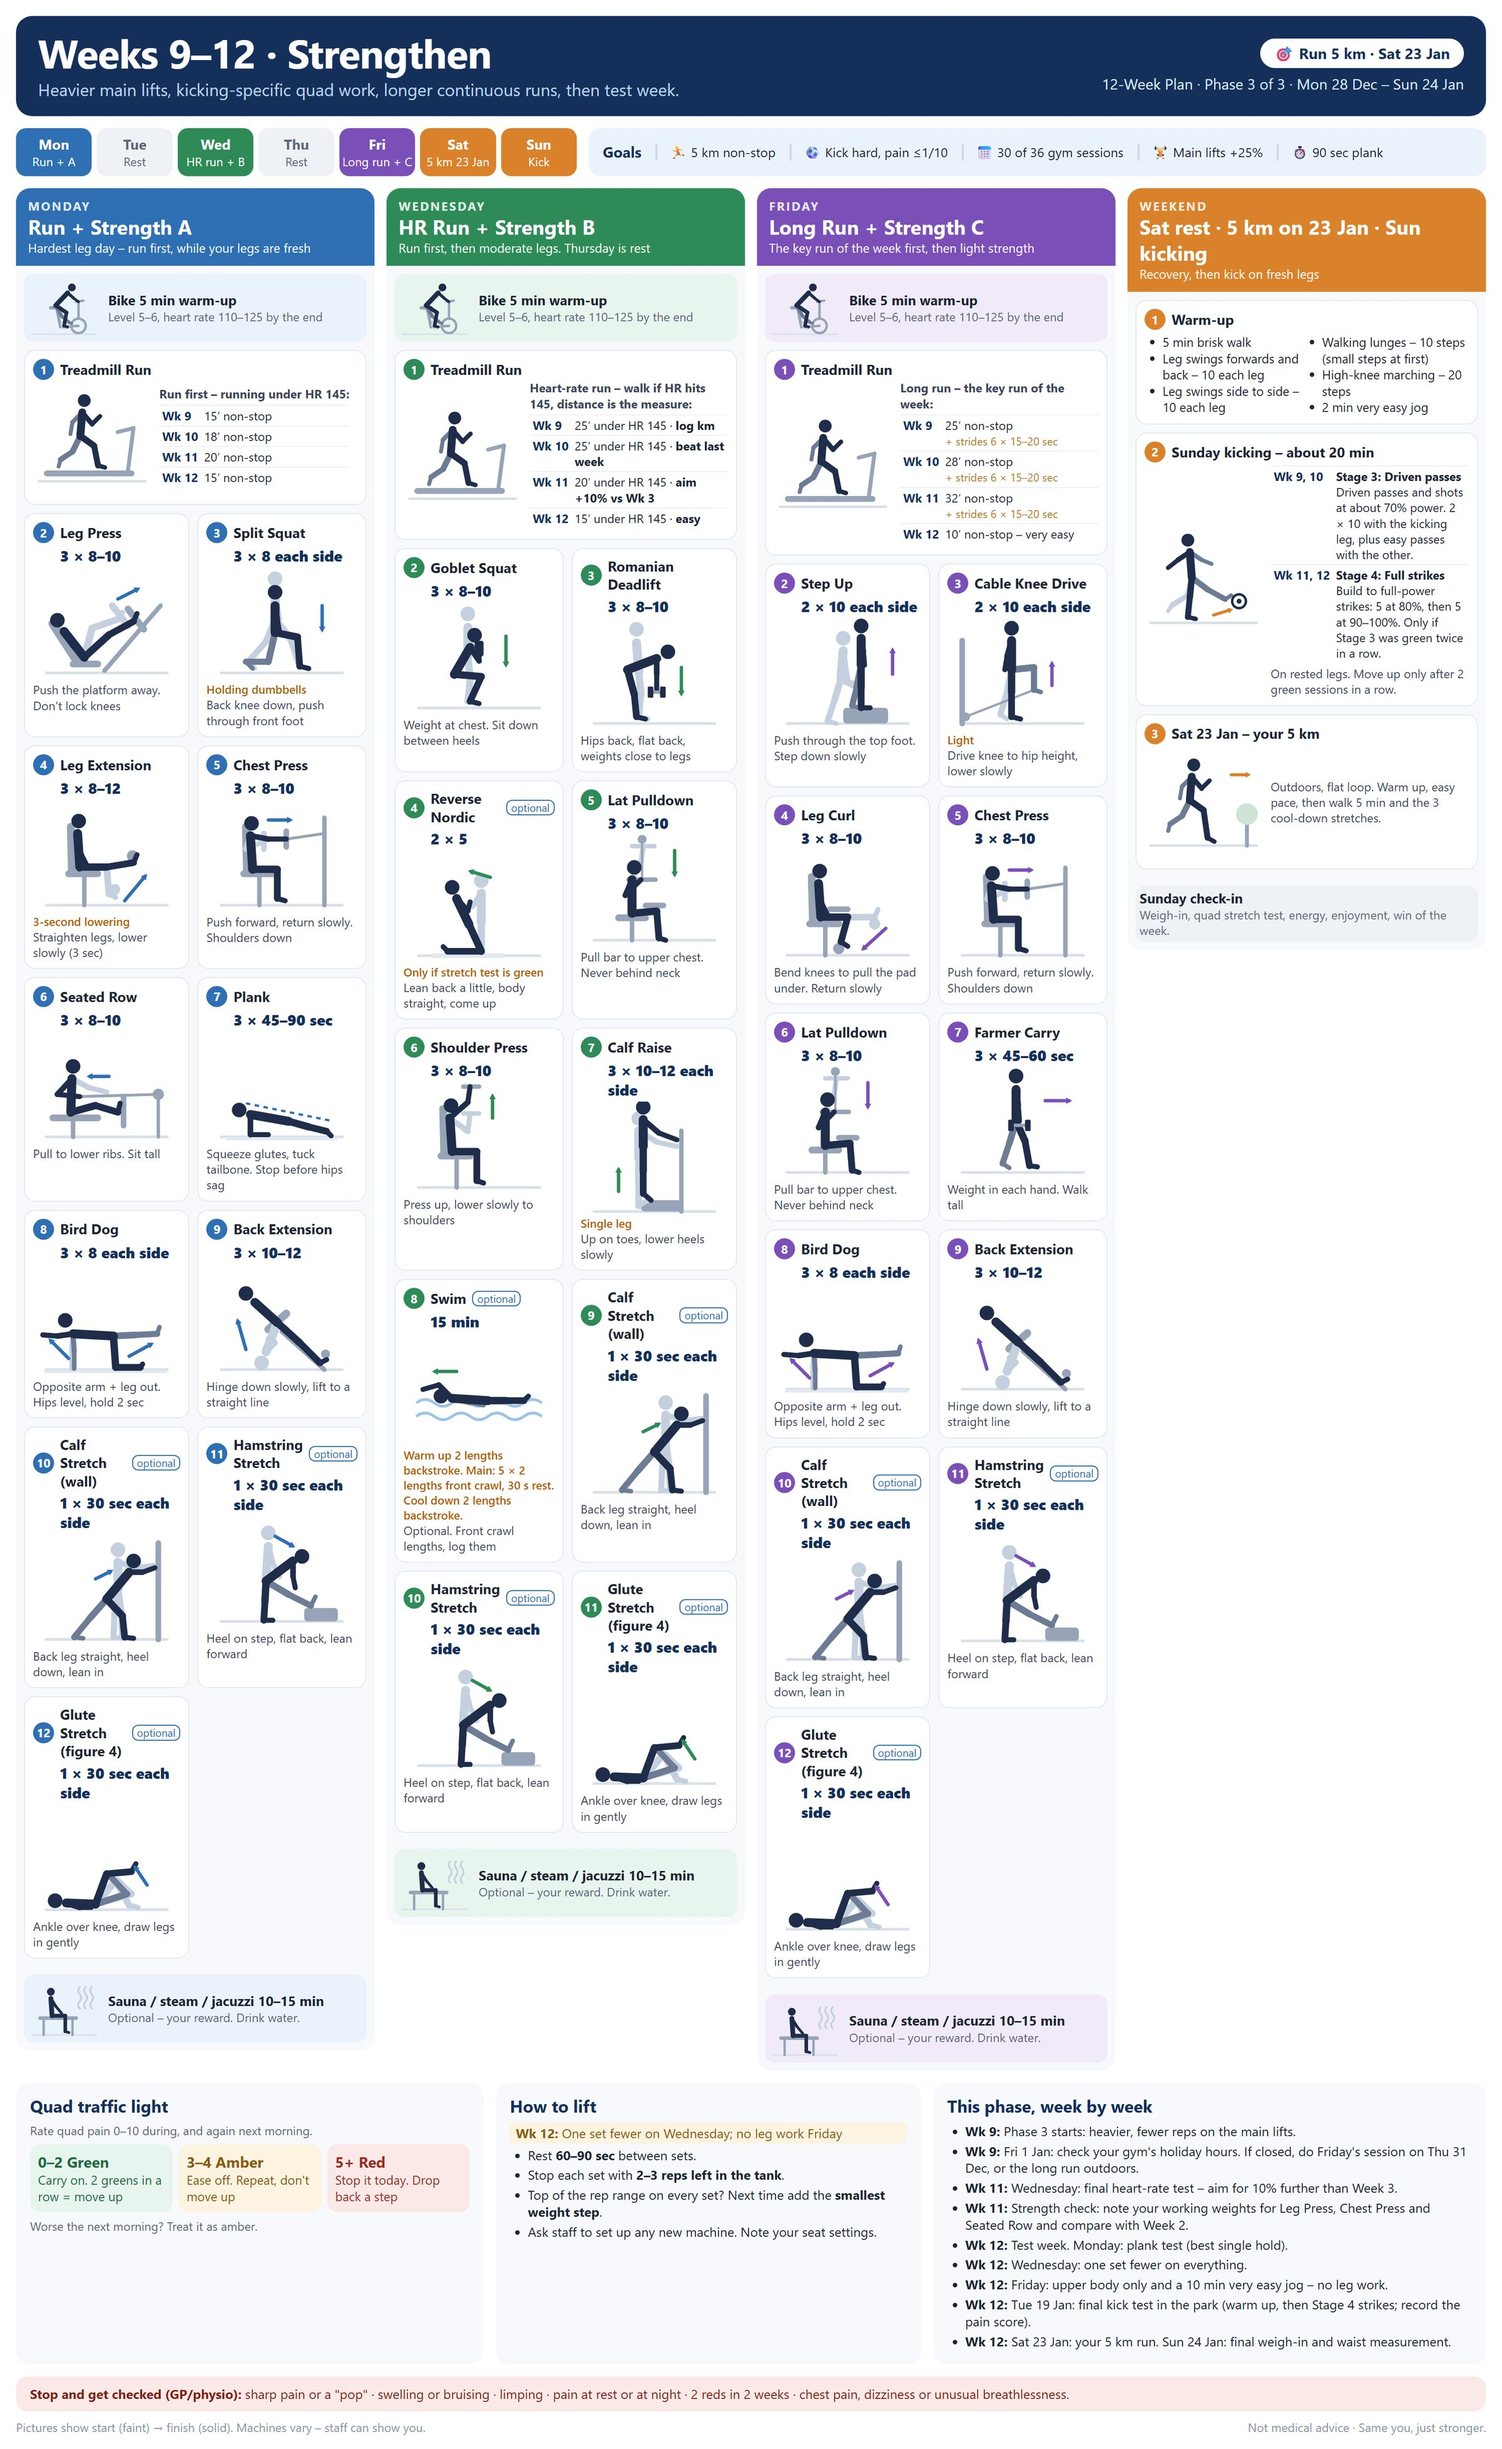
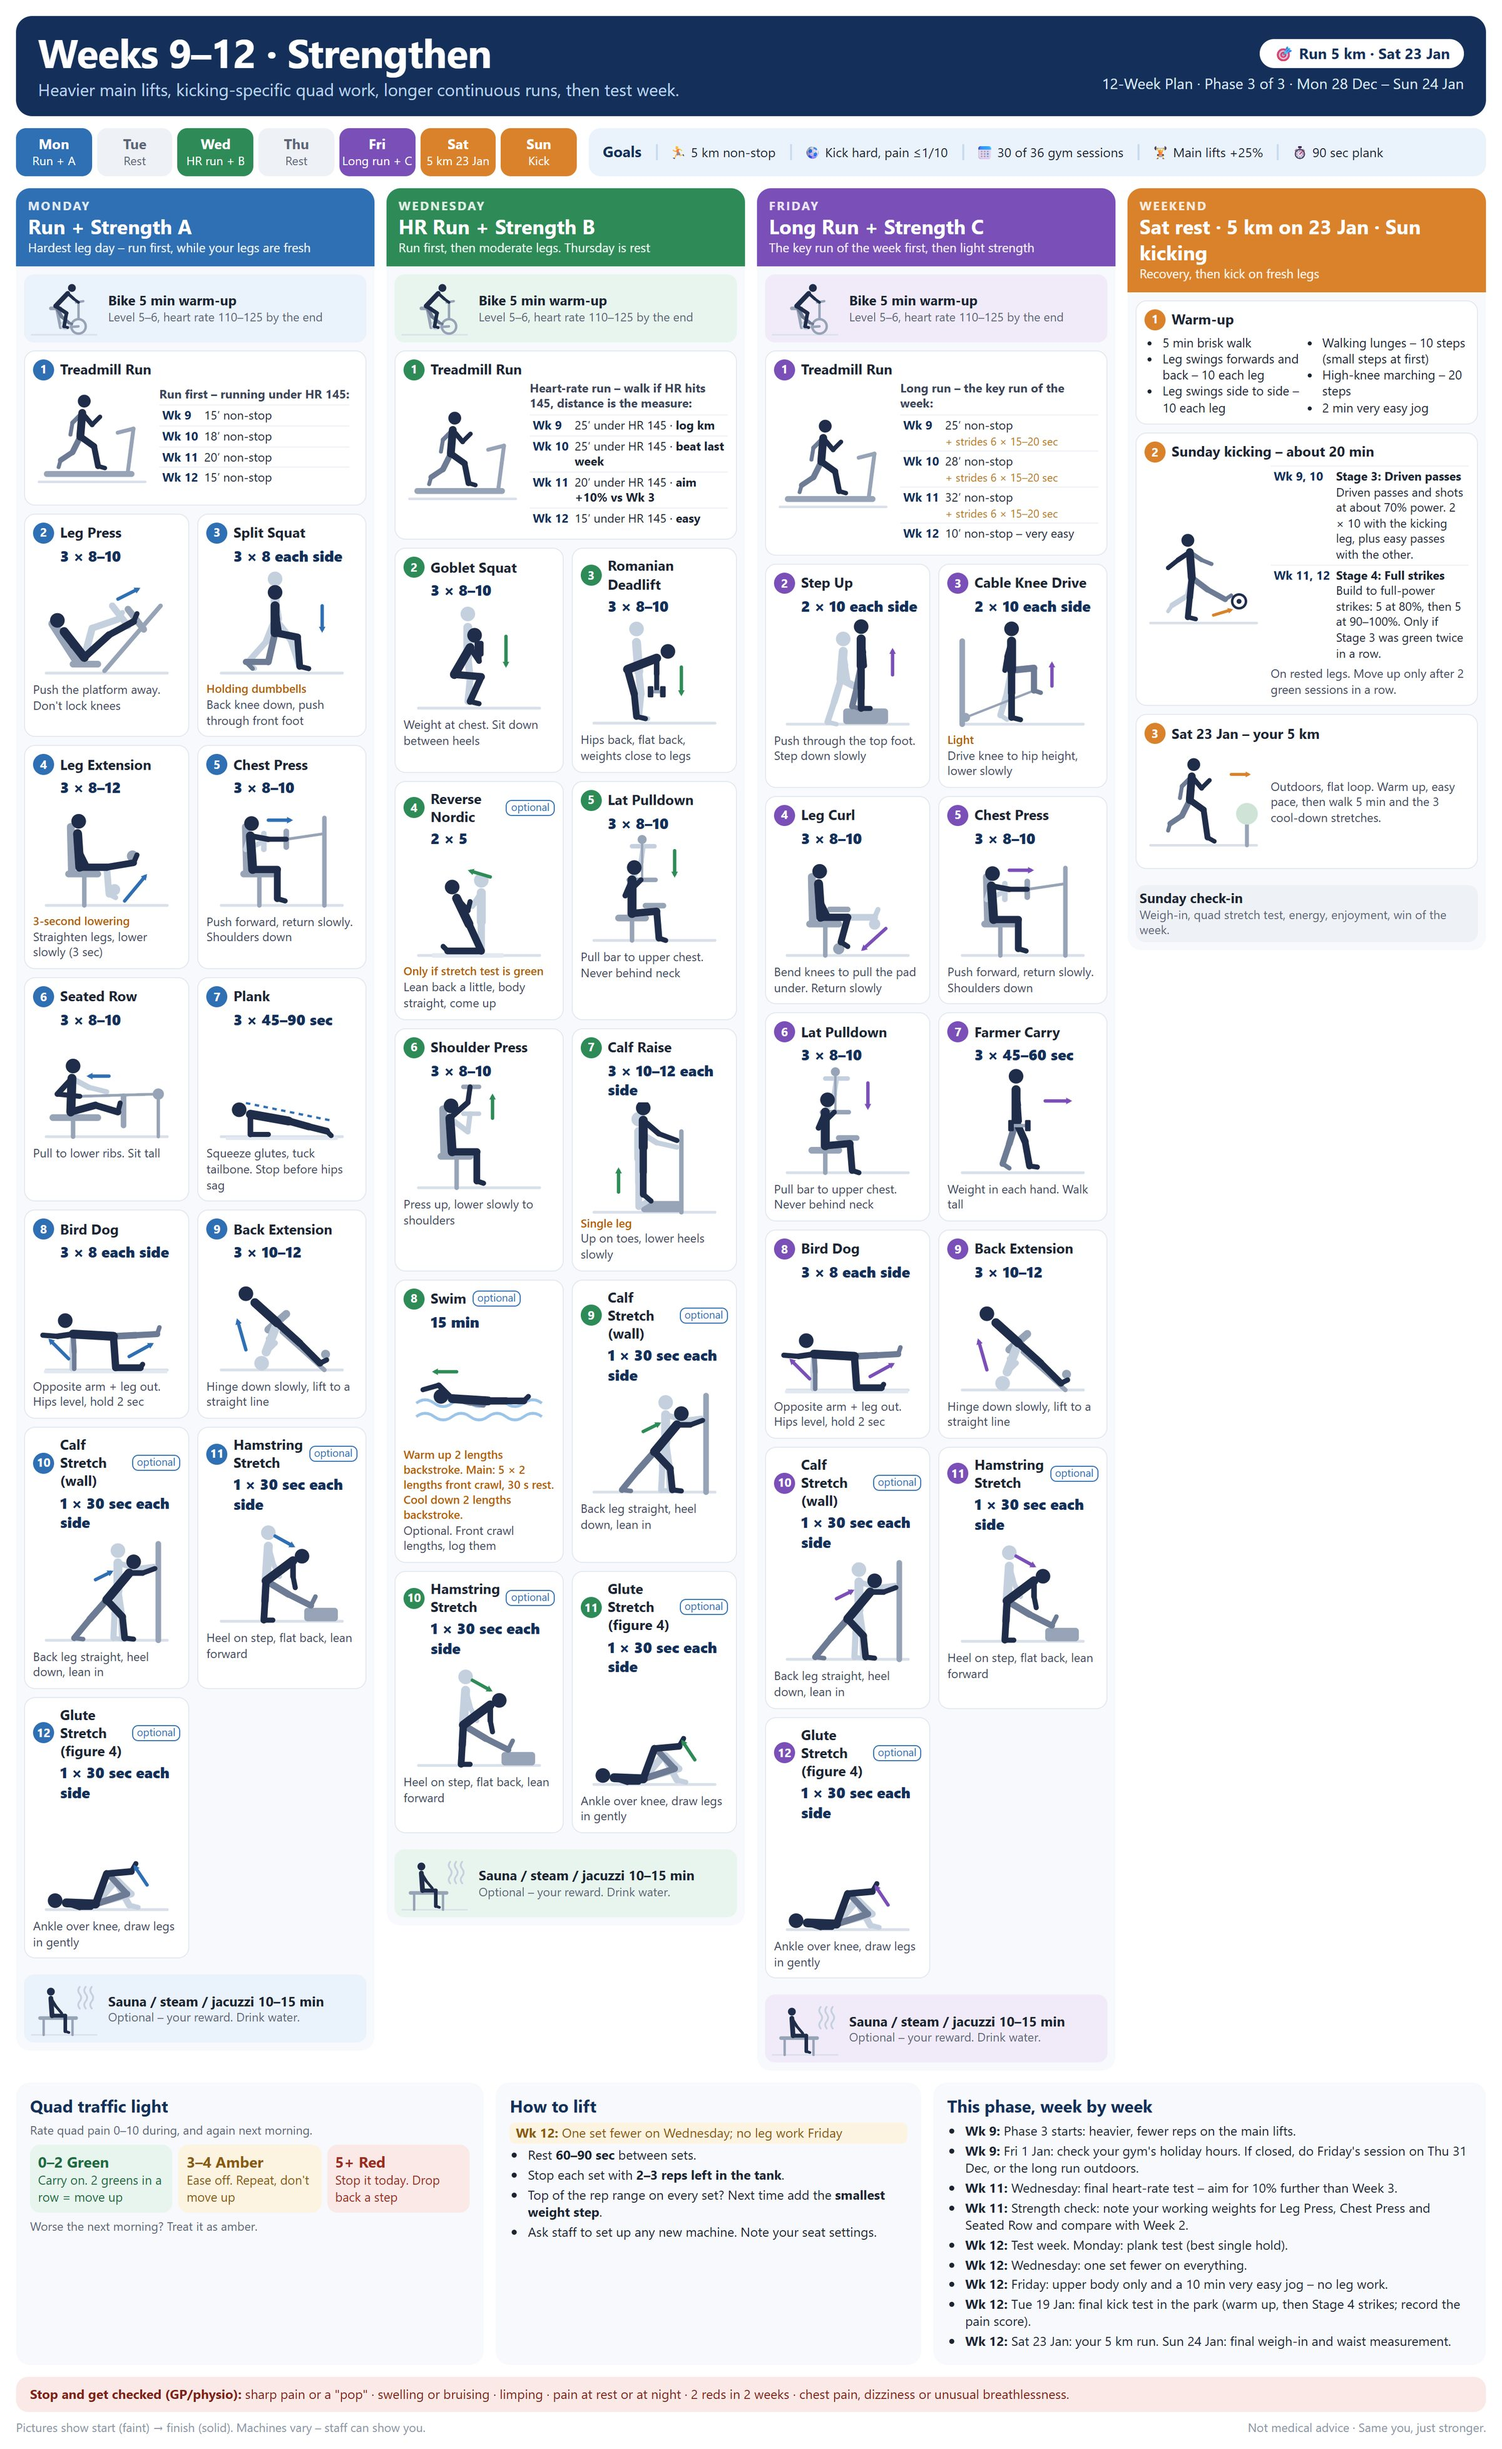
Ask how you feel (1-10, optional note) before each gym session
A new session opens on a "Before you start" screen: pick 1-10 (Start waits
for a rating) or skip for today. The rating shows in the workout header, can
be changed on the finish screen, and appears in History and the sessions CSV
(feeling_before, feeling_note). Infographics re-rendered by the new shared
renderer (same content, slightly smaller files).

diff --git a/js/workout.js b/js/workout.js
@@ -247,13 +247,14 @@ export function createWorkoutView({ $screen, $tabs, onExit, onRun }) {
 
   function render() {
     if (finishing) return renderFinish();
+    if (S.status === "in_progress" && S.feeling === undefined) return renderBefore();
     const total = S.items.length;
     const editing = S.status === "finished";
     $screen.innerHTML = `
       <div class="wk-top" style="background:${colour()}">
         <button type="button" class="back" data-act="exit">‹ Today</button>
         <h1>${esc(S.title)}</h1>
-        <p>${editing ? "Editing a finished session" : `<span id="elapsed">${Math.round((Date.now() - S.startedAt) / 60000)} min</span>`} · ${doneCount()} of ${total} done</p>
+        <p>${editing ? "Editing a finished session" : `<span id="elapsed">${Math.round((Date.now() - S.startedAt) / 60000)} min</span>`} · ${doneCount()} of ${total} done${S.feeling ? ` · feeling ${S.feeling}/10` : ""}</p>
       </div>
       <div class="exlist">${S.items.map(card).join("")}</div>
       <button type="button" class="btn finish" data-act="finish">${editing ? "Save changes" : "Finish workout"}</button>
@@ -274,6 +275,22 @@ export function createWorkoutView({ $screen, $tabs, onExit, onRun }) {
     }, 1000);
   }
 
+  // Before the first exercise: how you feel today, so the weekly review can set it against sleep and the session.
+  function renderBefore() {
+    $screen.innerHTML = `
+      <div class="wk-top" style="background:${colour()}"><button type="button" class="back" data-act="exit">‹ Today</button>
+        <h1>${esc(S.title)}</h1><p>Before you start</p></div>
+      <div class="card feel">
+        <p class="q">How are you feeling today? (1–10)</p>
+        ${chips("feel", -1, [1, 2, 3, 4, 5, 6, 7, 8, 9, 10], S.feelingDraft)}
+        <p class="muted small">1 = exhausted or unwell · 5 = OK · 10 = full of energy</p>
+        <label class="mini">Note (optional)<input class="in wide" data-field="fnote" value="${esc(S.feelingNote ?? "")}"
+          placeholder="Slept badly, stiff back, great mood…"></label>
+        <button type="button" class="btn" data-act="feelok" ${S.feelingDraft ? "" : "disabled"}>Start workout</button>
+        <button type="button" class="linkbtn" data-act="feelskip">Skip for today</button>
+      </div>`;
+  }
+
   function renderFinish() {
     const done = S.items.filter((i) => i.status === "done").length;
     const skipped = S.items.filter((i) => i.status === "skipped").length;
@@ -291,6 +308,8 @@ export function createWorkoutView({ $screen, $tabs, onExit, onRun }) {
         <p><b>${done}</b> done${skipped ? ` · ${skipped} skipped` : ""}${S.items.length - done - skipped ? ` · ${S.items.length - done - skipped} not marked` : ""}</p>
         <label class="mini">Session length (minutes) – correct it if the workout was left open
           <input class="in wide" inputmode="numeric" data-field="duration" value="${S.durationEdit ?? mins}" aria-label="Session length in minutes"></label>
+        <p class="q">How you felt before you started (1–10)</p>
+        ${chips("feelafter", -1, [1, 2, 3, 4, 5, 6, 7, 8, 9, 10], S.feeling)}
         <p class="q">How hard was the session overall? (1–10)</p>
         ${chips("effort", -1, [1, 2, 3, 4, 5, 6, 7, 8, 9, 10], S.effort)}
         <p class="muted small" id="effortlabel">${esc(effortLabel(S.effort))}</p>
@@ -393,6 +412,10 @@ export function createWorkoutView({ $screen, $tabs, onExit, onRun }) {
       case "restskip": clearInterval(restTimer); rest = null; break;
       case "finish": finishing = true; break;
       case "unfinish": finishing = false; break;
+      case "feel": S.feelingDraft = Number(b.dataset.v); break;
+      case "feelok": S.feeling = S.feelingDraft ?? null; delete S.feelingDraft; break;
+      case "feelskip": S.feeling = null; delete S.feelingDraft; break;
+      case "feelafter": S.feeling = S.feeling === Number(b.dataset.v) ? null : Number(b.dataset.v); break;
       case "effort": S.effort = S.effort === Number(b.dataset.v) ? null : Number(b.dataset.v); break;
       case "spain": S.painDuring = S.painDuring === Number(b.dataset.v) ? null : Number(b.dataset.v); break;
       case "confirm": {
@@ -431,6 +454,7 @@ export function createWorkoutView({ $screen, $tabs, onExit, onRun }) {
     if (!el || !S) return;
     const f = el.dataset.field, i = Number(el.dataset.i), j = Number(el.dataset.j);
     if (f === "snote") S.note = el.value;
+    else if (f === "fnote") S.feelingNote = el.value || undefined;
     else if (f === "note") S.items[i].note = el.value;
     else if (f === "setting") S.items[i].setting = el.value;
     else if (f === "minutes") S.items[i].minutes = num(el.value);

diff --git a/js/settings.js b/js/settings.js
@@ -48,9 +48,9 @@ export async function exportCsv() {
   const sessions = (await db.all("sessions")).sort((a, b) => (a.date < b.date ? -1 : 1));
   const hhmm = (ms) => (ms ? new Date(ms).toTimeString().slice(0, 8) : "");  // local time a set was ticked
   const sets = [["date", "performed_on", "week", "session", "exercise", "set", "kg", "reps", "seconds", "minutes", "status", "reps_left_in_tank", "quad_pain", "setting", "note", "time_done"]];
-  const summary = [["date", "performed_on", "week", "session", "status", "duration_min", "effort", "quad_pain_during", "quad_pain_next_morning", "note"]];
+  const summary = [["date", "performed_on", "week", "session", "status", "duration_min", "effort", "quad_pain_during", "quad_pain_next_morning", "note", "feeling_before", "feeling_note"]];
   for (const s of sessions) {
-    summary.push([s.date, s.performedOn, s.week, s.title, s.status, s.durationMin, s.effort, s.painDuring, s.painNextMorning, s.note]);
+    summary.push([s.date, s.performedOn, s.week, s.title, s.status, s.durationMin, s.effort, s.painDuring, s.painNextMorning, s.note, s.feeling, s.feelingNote]);
     for (const it of s.items) {
       const name = ex[it.exercise]?.name ?? it.exercise;
       if (!it.sets.length) sets.push([s.date, s.performedOn, s.week, s.title, name, "", "", "", "", it.minutes, it.status, "", it.pain, it.setting, it.note, hhmm(it.doneAt)]);

diff --git a/js/history.js b/js/history.js
@@ -10,7 +10,7 @@ export async function renderHistory($screen) {
   const [sessions, runs, kicks, checkins] = await Promise.all(["sessions", "runs", "kicks", "checkins"].map((s) => db.all(s)));
   const rows = [
     ...sessions.map((s) => ({ store: "sessions", r: s, icon: "🏋", title: s.title,
-      detail: s.status === "finished" ? `${s.items.filter((i) => i.status === "done").length} exercises · ${s.durationMin ?? "–"} min${s.effort ? ` · effort ${s.effort}` : ""}` : "In progress",
+      detail: s.status === "finished" ? `${s.items.filter((i) => i.status === "done").length} exercises · ${s.durationMin ?? "–"} min${s.feeling ? ` · feeling ${s.feeling}` : ""}${s.effort ? ` · effort ${s.effort}` : ""}` : "In progress",
       pain: s.painDuring, morning: s.painNextMorning })),
     ...runs.filter((r) => r.source !== "gym").map((r) => ({ store: "runs", r, icon: "🏃", title: r.where === "outdoor" ? "Outdoor run" : "Treadmill run",
       detail: r.status === "finished" ? `${r.totalRunMin ?? "–"} min running${r.longestMin != null ? ` · longest ${r.longestMin} min` : ""}${r.distanceKm ? ` · ${r.distanceKm} km` : ""}` : "In progress",

diff --git a/sw.js b/sw.js
@@ -1,6 +1,6 @@
 // Offline support: cache the app files on first load, serve them from the cache afterwards.
 // Bump VERSION whenever any file below changes so phones pick up the update.
-const VERSION = "gymplan-v18";
+const VERSION = "gymplan-v19";
 const FILES = [
   "./", "index.html", "manifest.webmanifest", "css/app.css",
   "js/app.js", "js/db.js", "js/plan.js", "js/ui.js", "js/beep.js", "js/workout.js",
